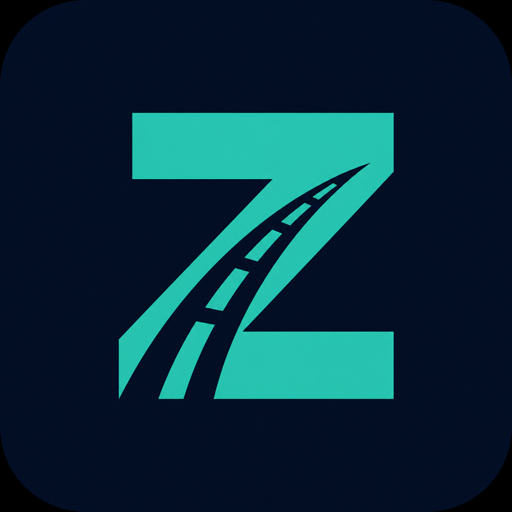
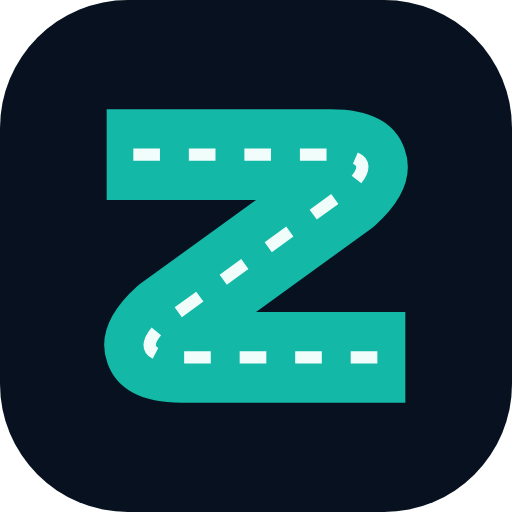
Redraw the Zeke mark as a switchback road
The Z is now one winding road with lane markings, after Cebu's mountain
highways. Navy badge with a teal road on light UI, teal badge with a navy
road on dark. Favicons drop the lane dashes, which turn to noise at 16px.
App icons and the brand lockups in public/brand are regenerated.

diff --git a/components/brand/zeke-mark.tsx b/components/brand/zeke-mark.tsx
@@ -2,23 +2,31 @@ import { cn } from "@/lib/utils";
 
 type ZekeMarkProps = {
   className?: string;
-  /** Teal badge on dark UI, or navy badge on light UI. */
+  /** Navy badge with a teal road for light UI; teal badge with a navy road for dark UI. */
   variant?: "teal" | "navy";
+  /** Lane markings. Drop them below ~24px, where the dashes turn to noise. */
+  lanes?: boolean;
   title?: string;
 };
 
-/**
- * Geometric Z monogram with a route cut through the diagonal —
- * Zeke Car Rentals brand mark for headers and favicon-scale UI.
- */
+/** The Z drawn as one switchback road, as in Cebu's mountain highways. */
+export const ZEKE_ROAD_PATH = "M10 14.5H31Q36.2 14.5 32.3 18L15.7 30Q11.8 33.5 17 33.5H38";
+/** Same road, inset at both ends so the dashes stop inside the asphalt. */
+export const ZEKE_LANE_PATH = "M12.5 14.5H31Q36.2 14.5 32.3 18L15.7 30Q11.8 33.5 17 33.5H35.5";
+
+const palette = {
+  navy: { badge: "#07111F", road: "#14B8A6", lane: "#F0FDFA" },
+  teal: { badge: "#14B8A6", road: "#07111F", lane: "#F0FDFA" },
+} as const;
+
+/** Zeke Car Rentals brand mark for headers and favicon-scale UI. */
 export function ZekeMark({
   className,
   variant = "teal",
+  lanes = true,
   title = "Zeke Car Rentals",
 }: ZekeMarkProps) {
-  const isTeal = variant === "teal";
-  const badge = isTeal ? "#2DD4BF" : "#07111F";
-  const ink = isTeal ? "#07111F" : "#2DD4BF";
+  const colors = palette[variant];
 
   return (
     <svg
@@ -26,24 +34,28 @@ export function ZekeMark({
       className={cn("size-10 shrink-0", className)}
       fill="none"
       role={title ? "img" : undefined}
-      viewBox="0 0 40 40"
+      viewBox="0 0 48 48"
       xmlns="http://www.w3.org/2000/svg"
     >
       {title ? <title>{title}</title> : null}
-      <rect fill={badge} height="40" rx="8" width="40" />
-      {/* Bold geometric Z */}
+      <rect fill={colors.badge} height="48" rx="12" width="48" />
       <path
-        d="M9 10h22v5.25L16.75 24.5H31V30H9v-5.25L22.25 15.25H9V10Z"
-        fill={ink}
+        d={ZEKE_ROAD_PATH}
+        stroke={colors.road}
+        strokeLinejoin="round"
+        strokeWidth="8.5"
       />
-      {/* Route stripe + destination pin through the diagonal */}
-      <path
-        d="M13.5 19.25 26.5 28.5"
-        stroke={badge}
-        strokeLinecap="round"
-        strokeWidth="2.75"
-      />
-      <circle cx="26.5" cy="28.5" fill={ink} r="2.1" stroke={badge} strokeWidth="1.4" />
+      {lanes ? (
+        // Normalised length: 13 dash+gap periods plus a closing dash, so the
+        // markings start and end on a full dash.
+        <path
+          d={ZEKE_LANE_PATH}
+          pathLength={100}
+          stroke={colors.lane}
+          strokeDasharray="3.56 3.86"
+          strokeWidth="1.15"
+        />
+      ) : null}
     </svg>
   );
 }
